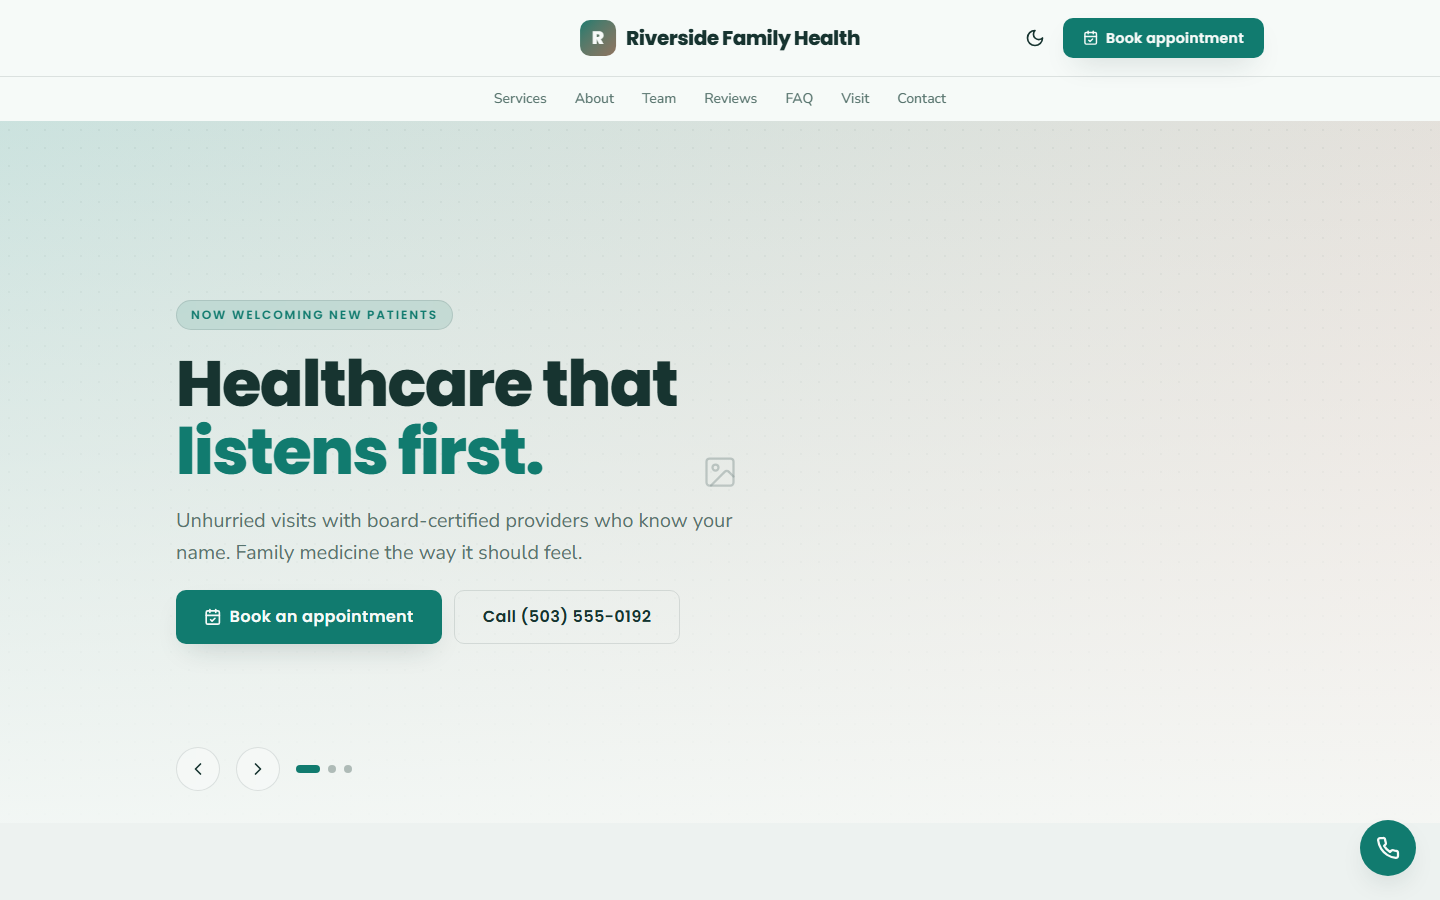
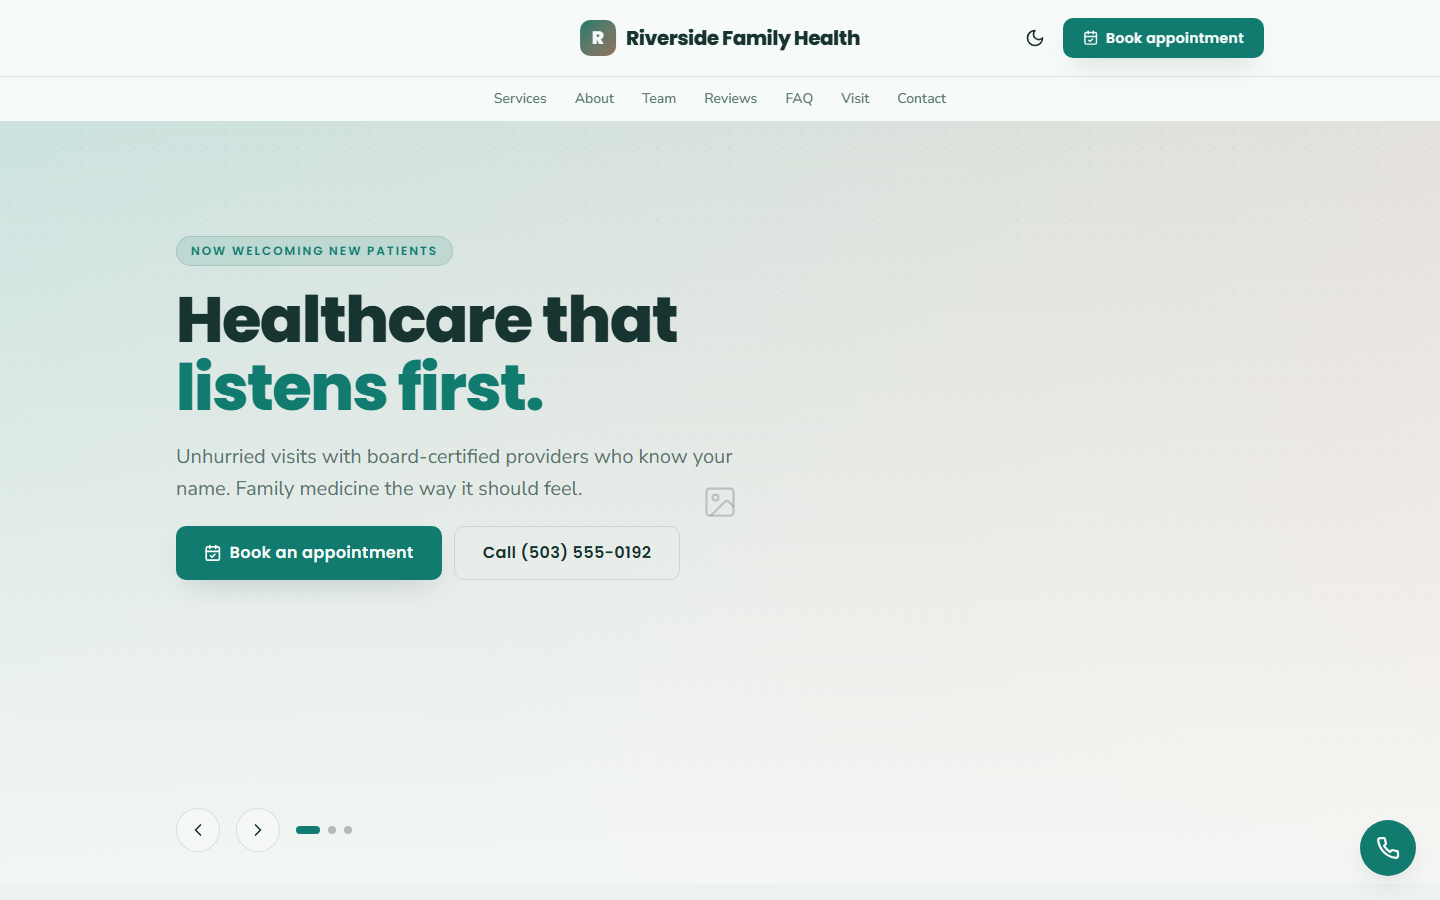
Hero slider: stop the controls sitting on top of the CTA
On a slide whose heading runs to three lines, the CTA row reached down
into the prev/next controls. Measured on riverside: the CTA occupied
y 580-634 and the Previous button y 607-651 — 27px of overlap, half the
button's height.

It was not cosmetic. The controls carry z-10 and pointer-events-auto and
come after the slides, so they take the click: elementFromPoint at
(108, 623), a point inside the CTA with the CTA visible and settled,
resolved to "BUTTON: Previous slide". The bottom half of the primary
call-to-action changed the slide instead of converting.

Reserving space inside the slide did nothing, which is what pointed at
the real cause: every slide was `absolute inset-0`, so no slide could
contribute height. The region was pinned to its `min-h` and the tallest
slide simply overflowed and was clipped by `overflow-hidden`. The slides
now stack in one grid cell, so the region measures its tallest slide and
each slide has somewhere to put its copy — 562px to 743px here, with the
gap to the controls going from -27px to 154px.

Stacking rather than sizing per slide also means the height no longer
changes on rotation, so there is no layout shift every autoplay tick.

Verified in a real browser: a centre click on the CTA now resolves to the
CTA link, and re-overlapping the controls by hand reproduces the hijack
exactly, which is what confirms the diagnosis rather than assuming it.

diff --git a/components/sections/HeroSlider.tsx b/components/sections/HeroSlider.tsx
@@ -99,7 +99,13 @@ export function HeroSlider({
       }}
       onKeyDown={onKeyDown}
     >
-      <div className="relative min-h-[clamp(30rem,78vh,46rem)]">
+      {/* The slides stack in a single grid cell rather than being absolutely
+          positioned. Absolute slides cannot contribute height, so the region
+          was locked to `min-h` and the tallest slide simply overflowed and got
+          clipped — which is why reserving space inside a slide did nothing.
+          One grid cell makes the height the max of the slides, so every slide
+          has somewhere to put its copy. */}
+      <div className="relative grid min-h-[clamp(30rem,78vh,46rem)]">
         {slides.map((slide, i) => {
           const active = i === index;
           return (
@@ -117,7 +123,7 @@ export function HeroSlider({
               aria-roledescription="slide"
               aria-label={`${i + 1} / ${count}`}
               className={cn(
-                "absolute inset-0 transition-opacity duration-700 ease-[var(--transition-ease)] motion-reduce:transition-none",
+                "relative [grid-area:1/1] transition-opacity duration-700 ease-[var(--transition-ease)] motion-reduce:transition-none",
                 active ? "opacity-100" : "pointer-events-none opacity-0",
               )}
             >
@@ -159,6 +165,15 @@ export function HeroSlider({
                     "flex max-w-2xl flex-col gap-5",
                     slide.align === "center" && "mx-auto items-center text-center",
                     slide.align === "end" && "ms-auto items-end text-end",
+                    // Reserve the strip the controls float in. They are pinned
+                    // at bottom-8 with z-10 and pointer-events-auto, so they sit
+                    // ABOVE the copy: on a slide whose heading runs to three
+                    // lines the CTA row reached into them, and the overlap did
+                    // not merely look wrong — a click in the shared band hit
+                    // "Previous slide" instead of the CTA. The copy is centred,
+                    // so padding here lifts it by half; this clears the strip
+                    // with room to spare.
+                    count > 1 && "pb-32",
                   )}
                 >
                   {slide.eyebrow && (
